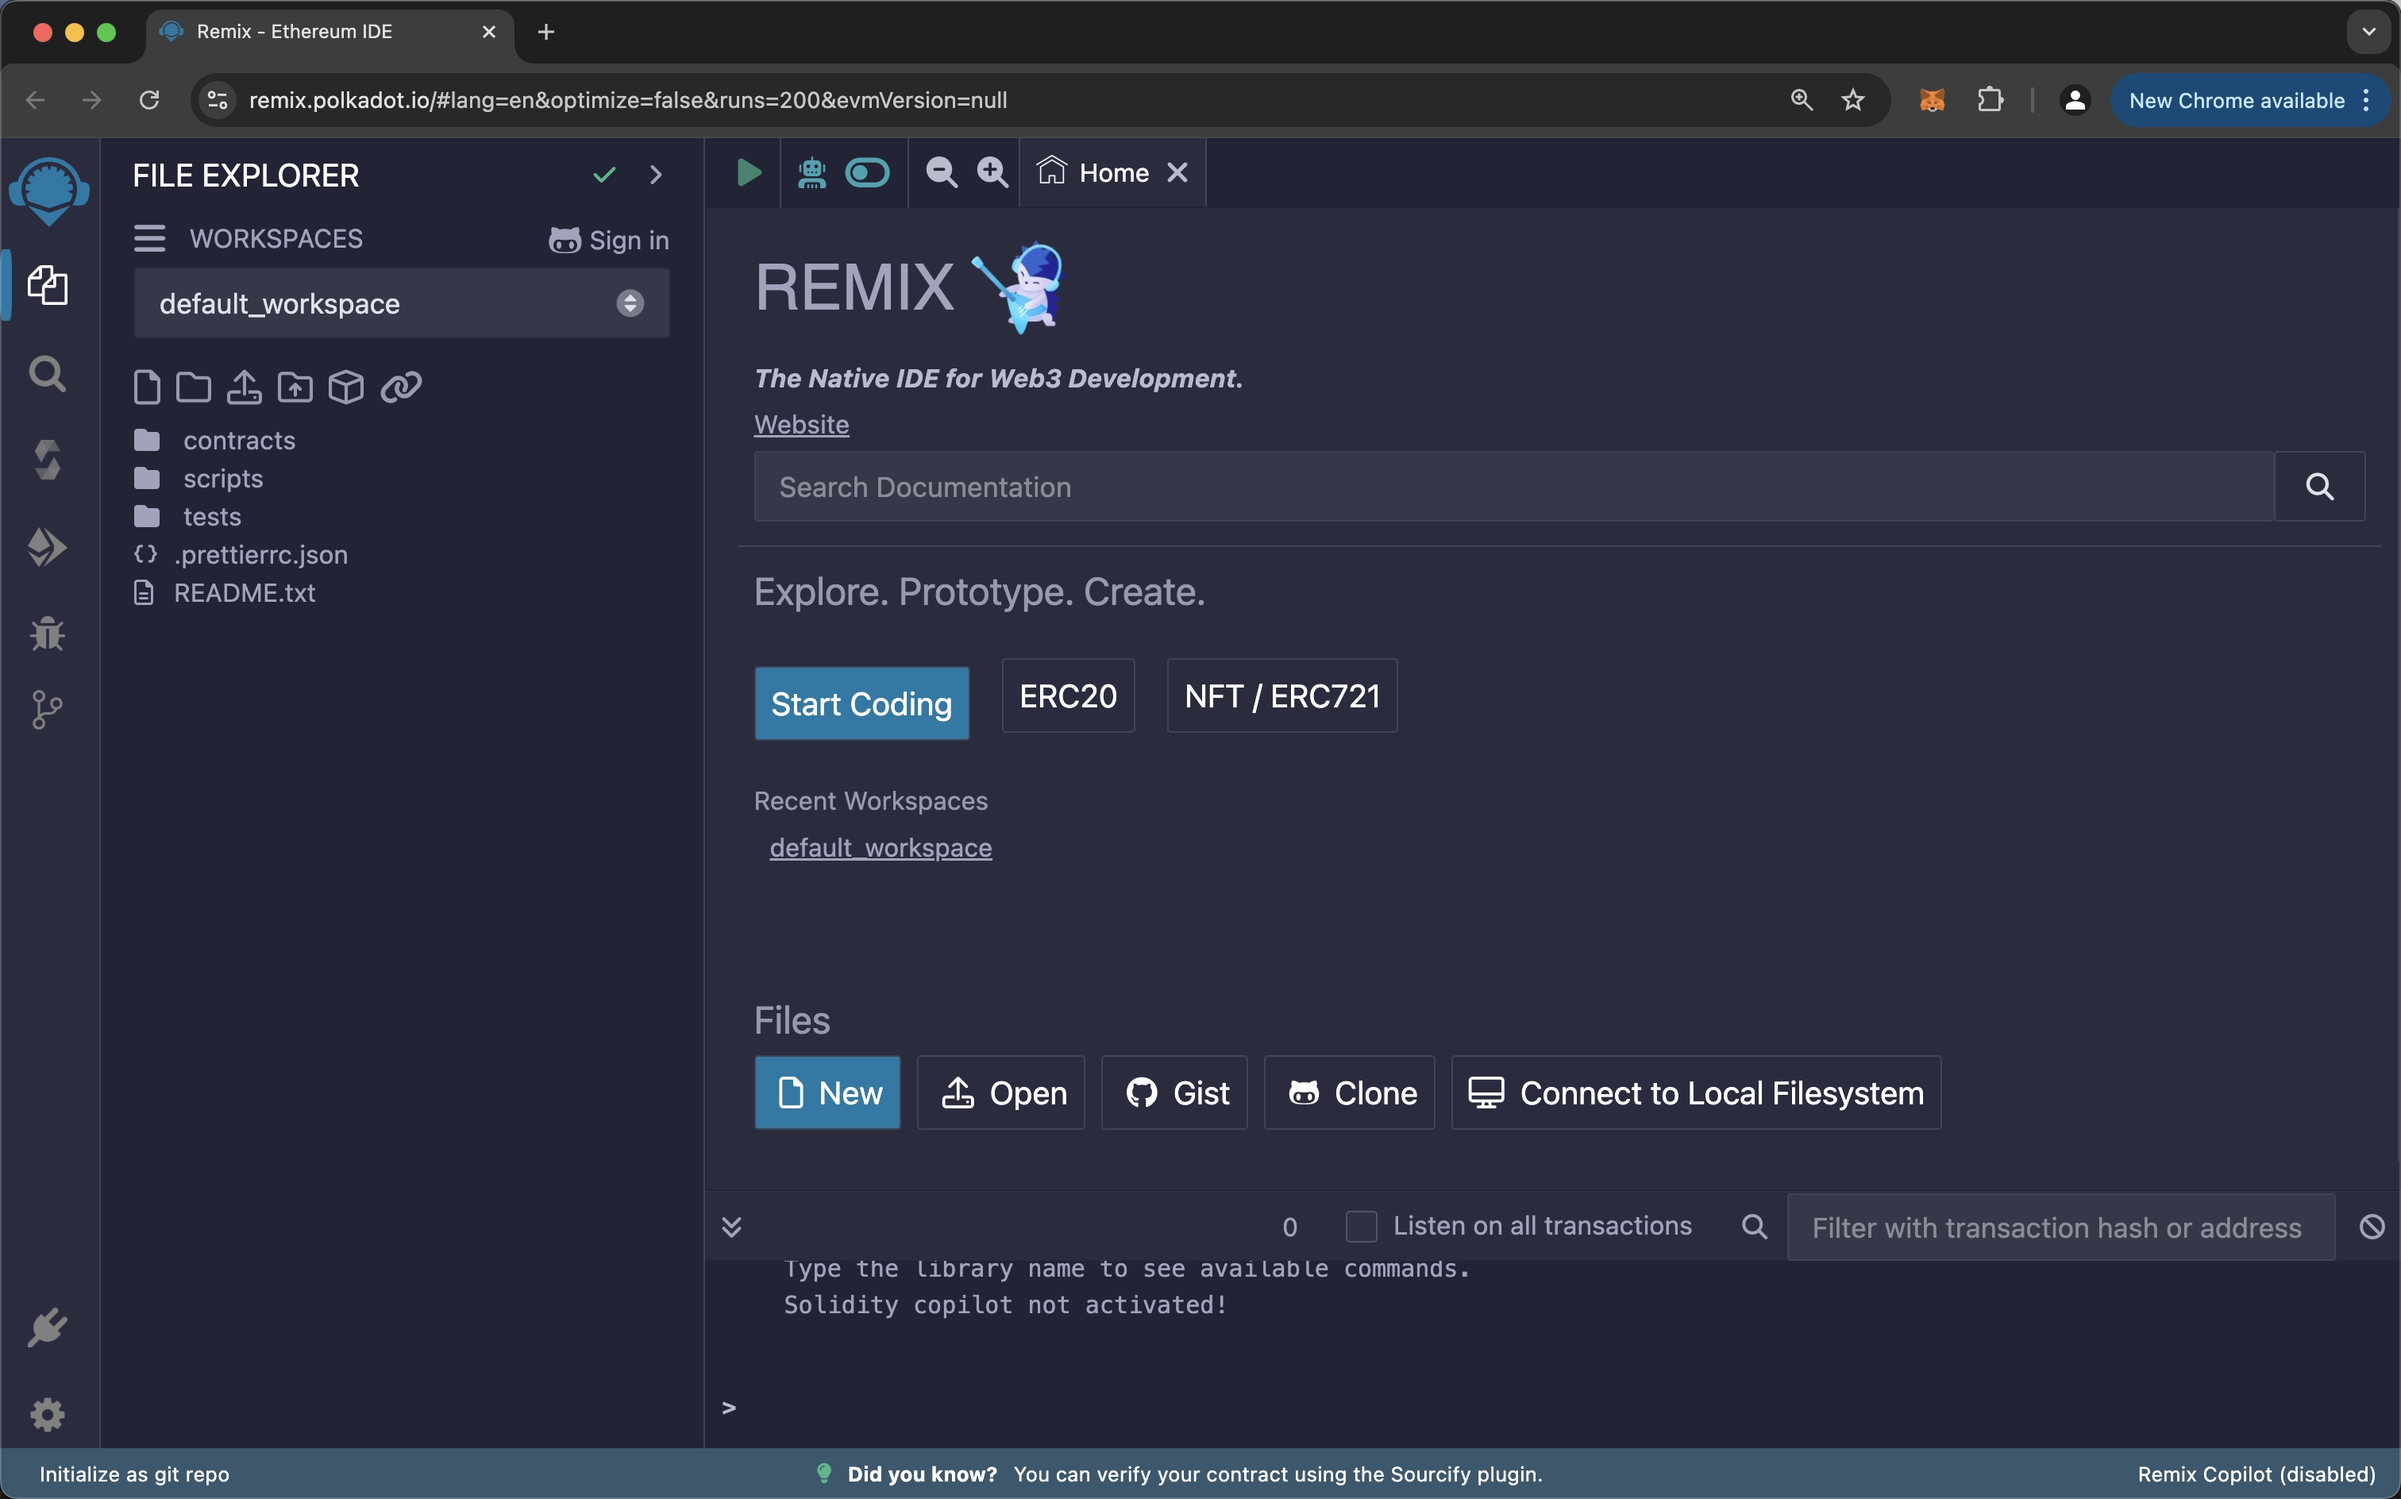
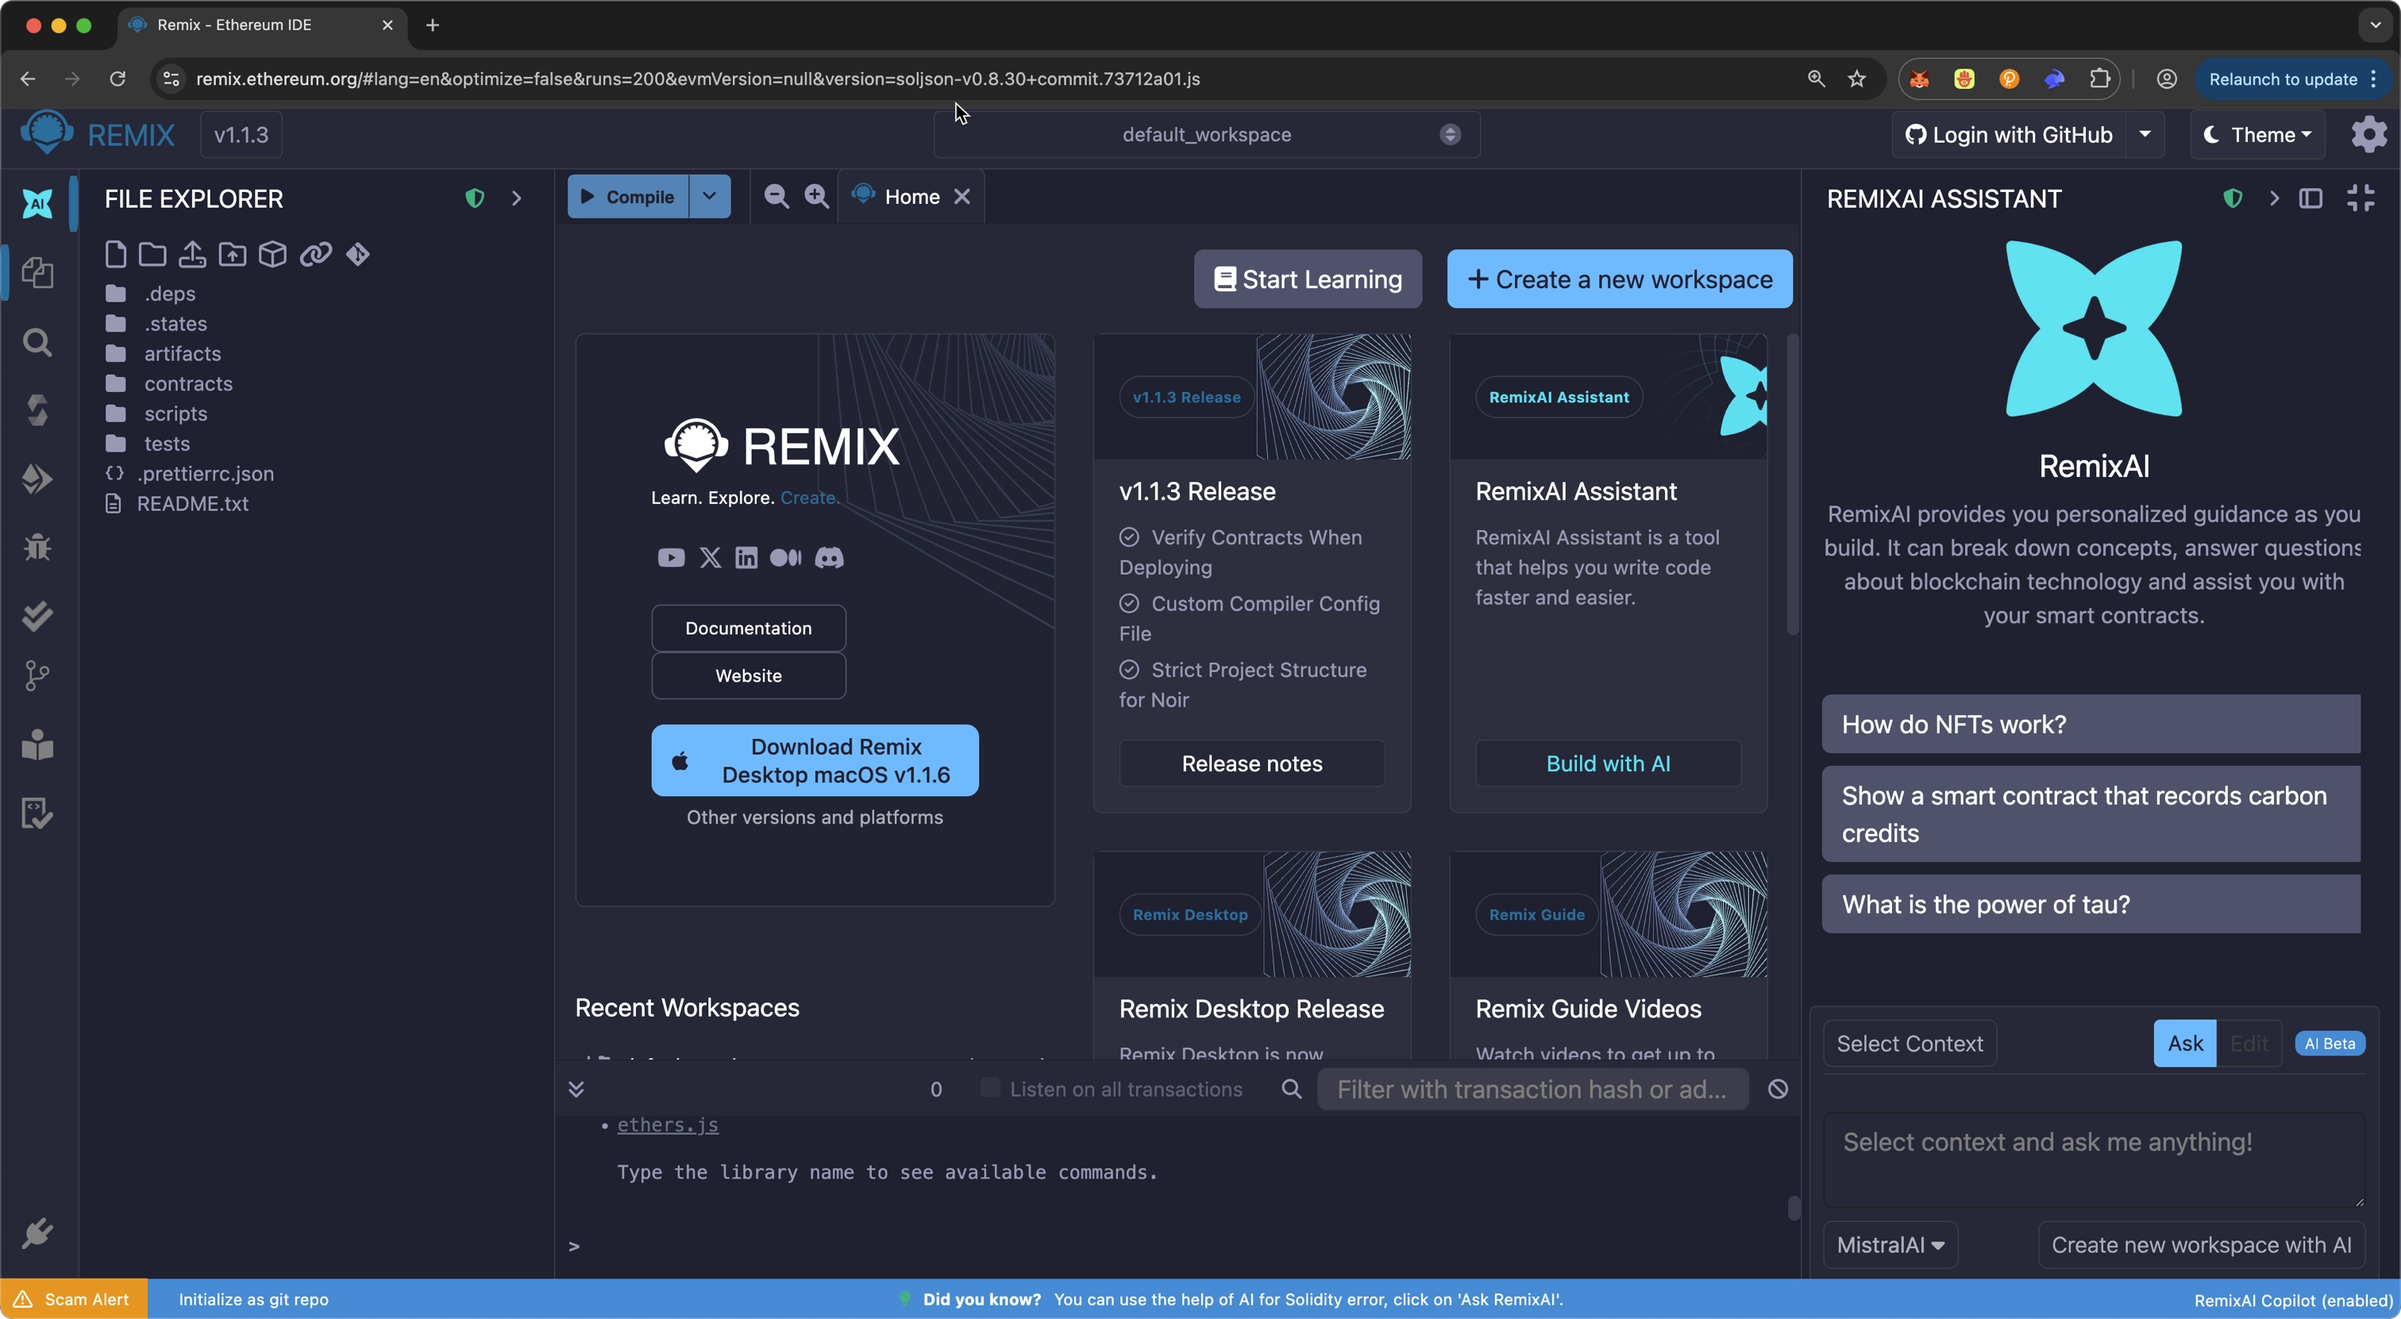
fix: get started ready

diff --git a/smart-contracts/dev-environments/remix/get-started.md b/smart-contracts/dev-environments/remix/get-started.md
@@ -1,51 +1,26 @@
 ---
-title: Use the Polkadot Remix IDE
-description: Explore the smart contract development and deployment process on Asset Hub using Remix IDE, a visual IDE for blockchain developers.
+title: Use the Remix IDE on Polkadot Hub
+description: Explore the smart contract development and deployment process on Polkadot Hub using Remix IDE, a visual IDE for blockchain developers.
 categories: Smart Contracts, Tooling
 ---
 
 # Remix IDE
 
---8<-- 'text/smart-contracts/polkaVM-warning.md'
-
-<div class="grid cards" markdown>
--   :octicons-code-16:{ .lg .middle } __Deploy NFTs Using Remix IDE__
-
-    ---
-
-    Mint your NFT on Polkadot's Asset Hub. Use PolkaVM and OpenZeppelin to bring your digital asset to life with Polkadot Remix IDE.
-
-    <br>
-    [:octicons-arrow-right-24: Get Started](/smart-contracts/cookbook/smart-contracts/deploy-nft/){target=\_blank}
-
--   :octicons-code-16:{ .lg .middle } __Deploy ERC20s Using Remix IDE__
-
-    ---
-
-    Mint your custom ERC-20 token on Polkadot's Asset Hub. Leverage PolkaVM and Polkadot Remix IDE to bring your blockchain project to life.
-
-    <br>
-    [:octicons-arrow-right-24: Get Started](/smart-contracts/cookbook/smart-contracts/deploy-erc20/){target=\_blank}
-</div>
-
-!!! warning
-    The Polkadot Remix IDE's contract compilation functionality is currently limited to Google Chrome. Alternative browsers are not recommended for this task.
-
 ## Overview
 
-Remix IDE is a robust browser-based development environment for smart contracts. This guide will walk you through the essentials of the [Polkadot Remix IDE](https://remix.polkadot.io/){target=\_blank} to understand the processes of compiling, developing, and deploying smart contracts on Asset Hub.
+Remix IDE is a robust browser-based development environment for smart contracts. This guide will walk you through the essentials of the [Remix IDE](https://remix.ethereum.org/){target=\_blank} to understand the processes of compiling, developing, and deploying smart contracts on Polkadot Hub.
 
 ## Prerequisites
 
 Before getting started, ensure you have:
 
-- A web browser with [Talisman](https://talisman.xyz/){target=\_blank} extension installed.
+- A web browser with [MetaMask](https://metamask.io/){target=\_blank} extension installed.
 - Basic understanding of Solidity programming.
-- Some WND test tokens to cover transaction fees (easily obtainable from the [Polkadot faucet](https://faucet.polkadot.io/westend?parachain=1000){target=\_blank}).
+- Some DOT test tokens to cover transaction fees (easily obtainable from the [Polkadot faucet](/smart-contracts/faucet/){target=\_blank}).
 
 ## Accessing Remix IDE
 
-Navigate to [https://remix.polkadot.io/](https://remix.polkadot.io/){target=\_blank}. The interface will load with a default workspace containing sample contracts.
+Navigate to [https://remix.ethereum.org/](https://remix.ethereum.org/){target=\_blank}. The interface will load with a default workspace containing sample contracts.
 
 ![](/images/smart-contracts/dev-environments/remix/get-started/remix-1.webp)
 
@@ -53,15 +28,11 @@ In this interface, you can access a file explorer, edit your code, interact with
 
 ## Creating a New Contract
 
-To create a new contract using the Polkadot Remix IDE, you can follow these steps:
+To create a new contract using the  Remix IDE, you can follow these steps:
 
 1. Select the **Create a new file** button in the `contracts` folder.
 
-    ![](/images/smart-contracts/dev-environments/remix/get-started/remix-2.webp)
-
 2. Name your file with a `.sol` extension, in this case, `Counter.sol`.
-
-    ![](/images/smart-contracts/dev-environments/remix/get-started/remix-3.webp)
 
 3. Write your Solidity code in the editor.
 
@@ -73,89 +44,40 @@ To create a new contract using the Polkadot Remix IDE, you can follow these step
         --8<-- 'code/smart-contracts/dev-environments/remix/get-started/Counter.sol'
         ```
 
-    ![](/images/smart-contracts/dev-environments/remix/get-started/remix-4.webp)
+    ![](/images/smart-contracts/dev-environments/remix/get-started/remix-1.gif)
 
 
 ## Compiling Your Contract
 
-1. To compile your contract, you need to:
+To compile your contract, you need to:
 
-    1. Navigate to the **Solidity Compiler** tab (third icon in the left sidebar).
-    2. Select **Compile** or use `Ctrl+S`.
+1. Navigate to the **Solidity Compiler** tab (third icon in the left sidebar).
+2. Select **Compile** or use `Ctrl+S`.
 
-        ![](/images/smart-contracts/dev-environments/remix/get-started/remix-5.webp)
-    
-        !!! note
-            Compilation errors and warnings appear in the terminal panel at the bottom of the screen.
+    !!! note
+        Compilation errors and warnings appear in the terminal panel at the bottom of the screen.
 
-1. After compiling your contract, you can navigate to the **File Explorer** tab (first icon in the left sidebar) and check that:
+3. After compiling your contract, you can navigate to the **File Explorer** tab (first icon in the left sidebar) and check that:
     1. The `artifact` folder is present.
     2. The `Counter_metadata.json` and the `Counter.json` files have been generated.
 
-        ![](/images/smart-contracts/dev-environments/remix/get-started/remix-6.webp)
-
-## Deploying Contracts
-
-1. To deploy your contract, you need to:
-
-    1. Navigate to the **Deploy & Run Transactions** tab (fourth icon in the left sidebar).
-    2. Click the **Environment** dropdown.
-    3. Select **Customize this list**.
-
-        ![](/images/smart-contracts/dev-environments/remix/get-started/remix-7.webp)
-
-2. Enable the **Injected Provider - Talisman** option.
-
-    ![](/images/smart-contracts/dev-environments/remix/get-started/remix-8.webp)
-
-4. Click again the **Environment** dropdown and select **Injected Provider - Talisman**.
-
-    ![](/images/smart-contracts/dev-environments/remix/get-started/remix-9.webp)
-
-4. Click the **Deploy** button and then click **Approve** in the Talisman wallet popup.
-
-    ![](/images/smart-contracts/dev-environments/remix/get-started/remix-10.webp)
-
-5. Once your contract is deployed successfully, you will see the following output in the Remix terminal:
-
-    ![](/images/smart-contracts/dev-environments/remix/get-started/remix-11.webp)
-
-## Interacting with Contracts
-
-Once deployed, your contract appears in the **Deployed/Unpinned Contracts** section:
-
-1. Expand the contract to view available methods.
-
-    ![](/images/smart-contracts/dev-environments/remix/get-started/remix-12.webp)
-
-    !!! tip
-        Pin your frequently used contracts to the **Pinned Contracts** section for easy access.
-
-2. To interact with the contract, you can select any of the exposed methods.
-
-    ![](/images/smart-contracts/dev-environments/remix/get-started/remix-13.webp)
-
-    In this way, you can interact with your deployed contract by reading its state or writing to it. The button color indicates the type of interaction available:
-
-    - **Red**: Modifies state and is payable.
-    - **Orange**: Modifies state only.
-    - **Blue**: Reads state.
+        ![](/images/smart-contracts/dev-environments/remix/get-started/remix-2.gif)
 
 ## Where to Go Next
 
-The Polkadot Remix IDE offers an environment for developing, compiling, and deploying smart contracts on Asset Hub. Its intuitive interface allows developers to easily write Solidity code, compile contracts, and interact with them directly in the browser.
+The  Remix IDE offers an environment for developing, compiling, and deploying smart contracts on the Polkadot Hub. Its intuitive interface allows developers to easily write Solidity code, compile contracts, and interact with them directly in the browser.
 
 Explore more about smart contracts through these resources:
 
 <div class="grid cards" markdown>
 
--   <span class="badge guide">Guide</span> __Smart Contracts on Polkadot__
+-   <span class="badge guide">Guide</span> __Deploy a Contract__
 
     ---
 
-    Dive into advanced smart contract concepts.
+    Learn how to deploy smart contracts using Remix IDE.
 
-    [:octicons-arrow-right-24: Get Started](/smart-contracts/)
+    [:octicons-arrow-right-24: Get Started](/smart-contracts/dev-environments/remix/deploy-a-contract)
 
 -   <span class="badge external">External</span> __OpenZeppelin Contracts__
 

diff --git a/smart-contracts/dev-environments/remix/deploy-a-contract.md b/smart-contracts/dev-environments/remix/deploy-a-contract.md
@@ -1,1 +1,47 @@
-TODO
+
+## Deploying Contracts
+
+1. To deploy your contract, you need to:
+
+    1. Navigate to the **Deploy & Run Transactions** tab (fourth icon in the left sidebar).
+    2. Click the **Environment** dropdown.
+    3. Select **Customize this list**.
+
+        ![](/images/smart-contracts/dev-environments//get-started/remix-7.webp)
+
+2. Enable the **Injected Provider - MEta** option.
+
+    ![](/images/smart-contracts/dev-environments/remix/get-started/remix-8.webp)
+
+4. Click again the **Environment** dropdown and select **Injected Provider - Talisman**.
+
+    ![](/images/smart-contracts/dev-environments/remix/get-started/remix-9.webp)
+
+4. Click the **Deploy** button and then click **Approve** in the Talisman wallet popup.
+
+    ![](/images/smart-contracts/dev-environments/remix/get-started/remix-10.webp)
+
+5. Once your contract is deployed successfully, you will see the following output in the Remix terminal:
+
+    ![](/images/smart-contracts/dev-environments/remix/get-started/remix-11.webp)
+
+## Interacting with Contracts
+
+Once deployed, your contract appears in the **Deployed/Unpinned Contracts** section:
+
+1. Expand the contract to view available methods.
+
+    ![](/images/smart-contracts/dev-environments/remix/get-started/remix-12.webp)
+
+    !!! tip
+        Pin your frequently used contracts to the **Pinned Contracts** section for easy access.
+
+2. To interact with the contract, you can select any of the exposed methods.
+
+    ![](/images/smart-contracts/dev-environments/remix/get-started/remix-13.webp)
+
+    In this way, you can interact with your deployed contract by reading its state or writing to it. The button color indicates the type of interaction available:
+
+    - **Red**: Modifies state and is payable.
+    - **Orange**: Modifies state only.
+    - **Blue**: Reads state.
